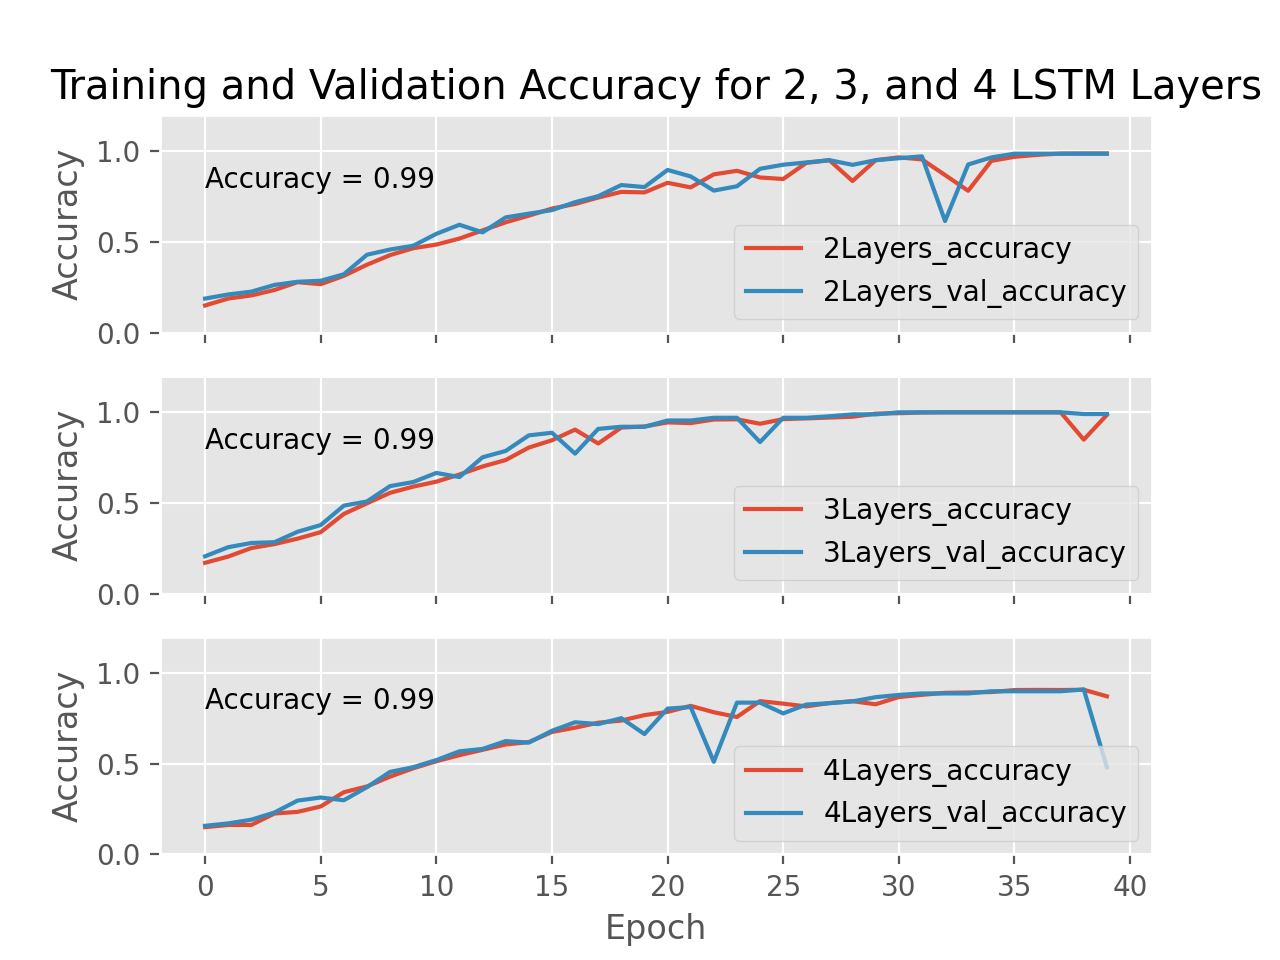
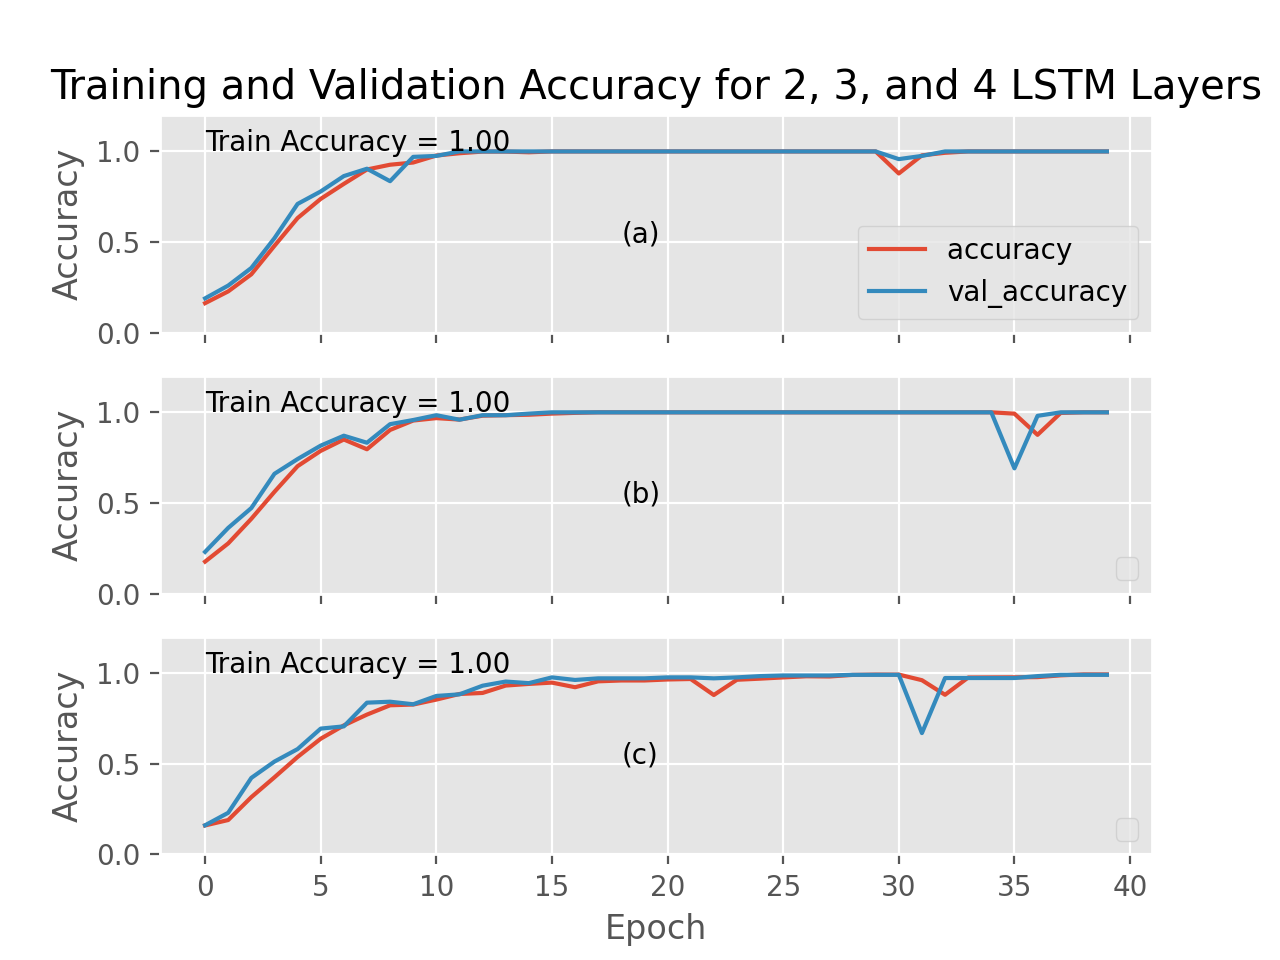
added new figure format

diff --git a/TrainLSTM.py b/TrainLSTM.py
@@ -1,5 +1,6 @@
 from sklearn.metrics import multilabel_confusion_matrix, accuracy_score
 from sklearn.model_selection import train_test_split
+from sklearn import preprocessing
 from tensorflow.keras.utils import to_categorical
 from tensorflow.keras.models import Sequential
 from tensorflow.keras.layers import LSTM, Dense
@@ -18,10 +19,6 @@ plt.style.use("ggplot")
 plt.figure(figsize=(10,10))
 maxInt = sys.maxsize
 
-def show_shapes(): # can make yours to take inputs; this'll use local variable values
-    print("Expected: (num_samples, timesteps, channels)")
-    print("Sequences: {}".format(Sequences.shape))
-    print("Targets:   {}".format(Targets.shape))  
 
 def vidLength(file_path):
 
@@ -109,8 +106,8 @@ for action in controlActions:
                         rightHand = np.array(rightHand).flatten()
                         face = np.array(face).flatten()
                         #allKeypoints = np.concatenate([pose,leftHand,rightHand,face])
-                        # allKeypoints = np.concatenate([pose,leftHand,rightHand])
-                        allKeypoints = np.concatenate([leftHand,rightHand])
+                        allKeypoints = np.concatenate([pose,leftHand,rightHand])
+                        # allKeypoints = np.concatenate([leftHand,rightHand])
                         window.append(allKeypoints)
 
                     elif frame_count > fps_threshold:
@@ -139,7 +136,7 @@ for action in controlActions:
 
             x = np.array(data)
             print(x.shape)
-'''                      
+'''                   
 
 print("Finished Loading data")
 
@@ -182,16 +179,22 @@ with open("label2.csv", "r") as file:
 
 #x2 = np.array(data2)
 
-#for testing uncomment these lines
-x = np.load("dataTrainingSet3Pose.npy")
-labels = np.load("labelsTrainingSet3Pose.npy")
+# for testing uncomment these lines
+x = np.load("dataHandBigDataset.npy")
+print(x.shape)
+# print(x[0][1])
+# data preprocessing
+# source: https://stackoverflow.com/questions/64345922/how-to-normalize-a-specific-dimension-of-a-3d-array
+scaler = preprocessing.MinMaxScaler()
+x = scaler.fit_transform(x.reshape(x.shape[0],-1)).reshape(x.shape)
+labels = np.load("labelsHandBigDataset.npy")
 print(x.shape)
 
 # uncomment the following line when trainning 
 
 # x = np.array(data)
-# np.save("data.npy",x)
-# np.save("labels.npy",labels)
+# np.save("dataPoseHandLargeDataset.npy",x)
+# np.save("labelsPoseHandLargeDataset.npy",labels)
 # print(x.shape)
 
 
@@ -210,15 +213,22 @@ print(x.shape)
 y = to_categorical(labels).astype(int) #converting to onehot encoded
 print(y.shape)
 
-x_train, x_test, y_train, y_test = train_test_split(x,y, test_size=0.3) #splittingdata for train and testing
+x_train, x_test, y_train, y_test = train_test_split(x,y, test_size=0.3,shuffle=True) #splittingdata for train and testing
+
+
+
+# splitting train into validation set by 10%
+valSet = x_train.shape[0] - int(x_train.shape[0] * 0.2)
+x_train,x_val = x_train[:valSet],x_train[valSet:]
+y_train,y_val = y_train[:valSet],y_train[valSet:]
 
 print("checking x-trian and y-train")
-print(type(x_train))
-print(type(y_train))
+print("x_train size = ",x_train.shape)
+print("y_train size=",y_train.shape)
+print("x_val size = ",x_val.shape)
+print("y_val size=",y_val.shape)
 
-Sequences = np.asarray(x_train)
-Targets   = np.asarray(y_train)
-show_shapes()
+
 
 #creating log files for visualization  from Tensor boards(dashboard)
 log_dir = os.path.join('Logs')
@@ -229,20 +239,20 @@ l1l2=regularizers.L1L2(l1=1e-4, l2=1e-5)
 
 # # model with 1 LSTM Layer
 # model1 = Sequential()
-# model1.add(LSTM(128,return_sequences=True,kernel_regularizer= l2, activation='elu', input_shape=(28,258)))
+# model1.add(LSTM(128,return_sequences=True,kernel_regularizer= l2, activation='relu', input_shape=(28,126)))
 # #model.add(LSTM(64,return_sequences=True, activation='relu', input_shape=(40,1662)))
-# #model.add(LSTM(64,return_sequences=True,kernel_regularizer= l2,  activation='elu'))
-# # model1.add(LSTM(32,return_sequences=False,kernel_regularizer= l2, activation='elu'))
-# #model.add(Dense(64,kernel_regularizer= l2, activation='elu'))
-# model1.add(Dense(32,kernel_regularizer= l2, activation='elu'))
+# #model.add(LSTM(64,return_sequences=True,kernel_regularizer= l2,  activation='relu'))
+# # model1.add(LSTM(32,return_sequences=False,kernel_regularizer= l2, activation='relu'))
+# #model.add(Dense(64,kernel_regularizer= l2, activation='relu'))
+# model1.add(Dense(32,kernel_regularizer= l2, activation='relu'))
 # model1.add(Dense(controlActions.shape[0], activation='softmax'))
 
 # model1.summary()
-# adam =Adam(learning_rate=0.00001)
+# adam =Adam(learning_rate=0.0001)
 # model1.compile(optimizer=adam, loss='categorical_crossentropy', metrics=['categorical_accuracy'])
 
 # print("Starting Training ...")
-# history = model1.fit(x_train, y_train, epochs=40,  validation_data = (x_test,y_test) ,callbacks=[tb_callback])
+# history = model1.fit(x_train, y_train, epochs=40,  validation_data = (x_val,y_val) ,callbacks=[tb_callback])
 # model1.save('GestureRecognition_1layers.h5')
 
 # plt.plot(history.history["accuracy"], label="2Layers_Train_accuracy  ")
@@ -272,29 +282,29 @@ l1l2=regularizers.L1L2(l1=1e-4, l2=1e-5)
 
 # model with 2 LSTM Layer
 model2 = Sequential()
-model2.add(LSTM(128,return_sequences=True,kernel_regularizer= l2, activation='elu', input_shape=(28,258)))
+model2.add(LSTM(300,return_sequences=True,kernel_regularizer= l2, activation='relu', input_shape=(28,126)))
 #model.add(LSTM(64,return_sequences=True, activation='relu', input_shape=(40,1662)))
-#model.add(LSTM(64,return_sequences=True,kernel_regularizer= l2,  activation='elu'))
-model2.add(LSTM(32,return_sequences=False,kernel_regularizer= l2, activation='elu'))
-#model.add(Dense(64,kernel_regularizer= l2, activation='elu'))
-model2.add(Dense(32,kernel_regularizer= l2, activation='elu'))
+#model.add(LSTM(64,return_sequences=True,kernel_regularizer= l2,  activation='relu'))
+model2.add(LSTM(120,return_sequences=False,kernel_regularizer= l2, activation='relu'))
+#model.add(Dense(64,kernel_regularizer= l2, activation='relu'))
+model2.add(Dense(64,kernel_regularizer= l2, activation='relu'))
 model2.add(Dense(controlActions.shape[0], activation='softmax'))
 
 model2.summary()
-adam =Adam(learning_rate=0.00001)
+adam =Adam(learning_rate=0.0001)
 model2.compile(optimizer=adam, loss='categorical_crossentropy', metrics=['categorical_accuracy'])
 
 print("Starting Training ...")
-history = model2.fit(x_train, y_train, epochs=40,  validation_data = (x_test,y_test) ,callbacks=[tb_callback])
+history = model2.fit(x_train, y_train, epochs=40,  validation_data = (x_val,y_val) ,callbacks=[tb_callback])
 model2.save('GestureRecognition_2layers.h5')
 
 fig, (axis1,axis2,axis3) = plt.subplots(nrows=3,ncols=1,sharex=True)
-axis1.set_title("Training and Validation Accuracy for 2, 3, and 4 LSTM Layers")
-axis1.plot(history.history["categorical_accuracy"], label="2Layers_accuracy  ")
-axis1.plot(history.history["val_categorical_accuracy"], label="2Layers_val_accuracy")
+# axis1.set_title("Training and Validation Accuracy for 2, 3, and 4 LSTM Layers")
+axis1.plot(history.history["categorical_accuracy"], label="Training  ")
+axis1.plot(history.history["val_categorical_accuracy"], label="Validation")
 axis1.set_ylabel("Accuracy")
-axis1.set_ylim([0.0, 1.2])
-axis1.legend(loc="lower right")
+axis1.set_ylim([0.0, 1.4])
+
 
 
 
@@ -308,32 +318,34 @@ print("Accuracy metrics for  2 layer LSTM")
 print(multilabel_confusion_matrix(ytrue,yhat))
 print(accuracy_score(ytrue,yhat))
 print({name: accuracy_score(np.array(ytrue) == i, np.array(yhat) == i) for i, name in enumerate(controlActions)})
-axis1.text(0,0.8,'Accuracy = %.2f' %accuracy_score(ytrue,yhat))
+axis1.text(27,1.1,'Test Accuracy = %.2f' %accuracy_score(ytrue,yhat))
+axis1.text(20,0.1,'(a)')
+axis1.legend(bbox_to_anchor=(1.25,0.5),loc="center right", borderaxespad=0.)
 
 
 # model with 3 LSTM Layer
 model3 = Sequential()
-model3.add(LSTM(128,return_sequences=True,kernel_regularizer= l2, activation='elu', input_shape=(28,258)))
+model3.add(LSTM(300,return_sequences=True,kernel_regularizer= l2, activation='relu', input_shape=(28,126)))
 #model.add(LSTM(64,return_sequences=True, activation='relu', input_shape=(40,1662)))
-model3.add(LSTM(64,return_sequences=True,kernel_regularizer= l2,  activation='elu'))
-model3.add(LSTM(32,return_sequences=False,kernel_regularizer= l2, activation='elu'))
-#model.add(Dense(64,kernel_regularizer= l2, activation='elu'))
-model3.add(Dense(32,kernel_regularizer= l2, activation='elu'))
+model3.add(LSTM(120,return_sequences=True,kernel_regularizer= l2,  activation='relu'))
+model3.add(LSTM(64,return_sequences=False,kernel_regularizer= l2, activation='relu'))
+#model.add(Dense(64,kernel_regularizer= l2, activation='relu'))
+model3.add(Dense(32,kernel_regularizer= l2, activation='relu'))
 model3.add(Dense(controlActions.shape[0], activation='softmax'))
 
 model3.summary()
-adam =Adam(learning_rate=0.00001)
+adam =Adam(learning_rate=0.0001)
 model3.compile(optimizer=adam, loss='categorical_crossentropy', metrics=['categorical_accuracy'])
 
 print("Starting Training ...")
-history = model3.fit(x_train, y_train, epochs=40,  validation_data = (x_test,y_test) ,callbacks=[tb_callback])
+history = model3.fit(x_train, y_train, epochs=40, validation_data = (x_val,y_val) ,callbacks=[tb_callback])
 model3.save('GestureRecognition_3layers.h5')
 
-axis2.plot(history.history["categorical_accuracy"], label="3Layers_accuracy  ")
-axis2.plot(history.history["val_categorical_accuracy"], label="3Layers_val_accuracy")
+axis2.plot(history.history["categorical_accuracy"])
+axis2.plot(history.history["val_categorical_accuracy"])
 axis2.set_ylabel("Accuracy")
-axis2.set_ylim([0.0, 1.2])
-axis2.legend(loc="lower right")
+axis2.set_ylim([0.0, 1.4])
+
 
 
 
@@ -347,35 +359,36 @@ print("Accuracy metrics for  3 layer LSTM")
 print(multilabel_confusion_matrix(ytrue,yhat))
 print(accuracy_score(ytrue,yhat))
 print({name: accuracy_score(np.array(ytrue) == i, np.array(yhat) == i) for i, name in enumerate(controlActions)})
-axis2.text(0,0.8,'Accuracy = %.2f' %accuracy_score(ytrue,yhat))
+axis2.text(27,1.1,'Test Accuracy = %.2f' %accuracy_score(ytrue,yhat))
+axis2.text(20,0.1,'(b)')
 
 
 
 #model with 4 LSTM layer
 model4 = Sequential()
-model4.add(LSTM(128,return_sequences=True,kernel_regularizer= l2, activation='elu', input_shape=(28,258)))
+model4.add(LSTM(300,return_sequences=True,kernel_regularizer= l2, activation='relu', input_shape=(28,126)))
 #model.add(LSTM(64,return_sequences=True, activation='relu', input_shape=(40,1662)))
-model4.add(LSTM(64,return_sequences=True,kernel_regularizer= l2,  activation='elu'))
-model4.add(LSTM(32,return_sequences=True,kernel_regularizer= l2, activation='elu'))
-model4.add(LSTM(16,return_sequences=False,kernel_regularizer= l2, activation='elu'))
-#model.add(Dense(64,kernel_regularizer= l2, activation='elu'))
-model4.add(Dense(16,kernel_regularizer= l2, activation='elu'))
+model4.add(LSTM(120,return_sequences=True,kernel_regularizer= l2,  activation='relu'))
+model4.add(LSTM(64,return_sequences=True,kernel_regularizer= l2, activation='relu'))
+model4.add(LSTM(32,return_sequences=False,kernel_regularizer= l2, activation='relu'))
+#model.add(Dense(64,kernel_regularizer= l2, activation='relu'))
+model4.add(Dense(16,kernel_regularizer= l2, activation='relu'))
 model4.add(Dense(controlActions.shape[0], activation='softmax'))
 
 model4.summary()
-adam2 =Adam(learning_rate=0.00001)
+adam2 =Adam(learning_rate=0.0001)
 model4.compile(optimizer=adam2, loss='categorical_crossentropy', metrics=['categorical_accuracy'])
 
 print("Starting Training ...")
-history = model4.fit(x_train, y_train, epochs=40,  validation_data = (x_test,y_test) ,callbacks=[tb_callback])
+history = model4.fit(x_train, y_train, epochs=40,  validation_data = (x_val,y_val) ,callbacks=[tb_callback])
 model4.save('GestureRecognition_4layers.h5')
 
-axis3.plot(history.history["categorical_accuracy"], label="4Layers_accuracy  ")
-axis3.plot(history.history["val_categorical_accuracy"], label="4Layers_val_accuracy")
+axis3.plot(history.history["categorical_accuracy"])
+axis3.plot(history.history["val_categorical_accuracy"])
 axis3.set_xlabel("Epoch")
 axis3.set_ylabel("Accuracy")
-axis3.set_ylim([0.0, 1.2])
-axis3.legend(loc="lower right")
+axis3.set_ylim([0.0, 1.4])
+# axis3.legend(loc="lower right")
 
 
 
@@ -389,6 +402,7 @@ print("Accuracy metrics for  4 layer LSTM")
 print(multilabel_confusion_matrix(ytrue,yhat))
 print(accuracy_score(ytrue,yhat))
 print({name: accuracy_score(np.array(ytrue) == i, np.array(yhat) == i) for i, name in enumerate(controlActions)})
-axis3.text(0,0.8,'Accuracy = %.2f' %accuracy_score(ytrue,yhat))
+axis3.text(27,1.1,'Test Accuracy = %.2f' %accuracy_score(ytrue,yhat))
+axis3.text(20,0.1,'(c)')
 
-plt.savefig("poseLandmark_1Ex5.png",dpi=200)
+plt.savefig("HandLandmark_1Ex4_1.png",dpi=250, bbox_inches='tight')
